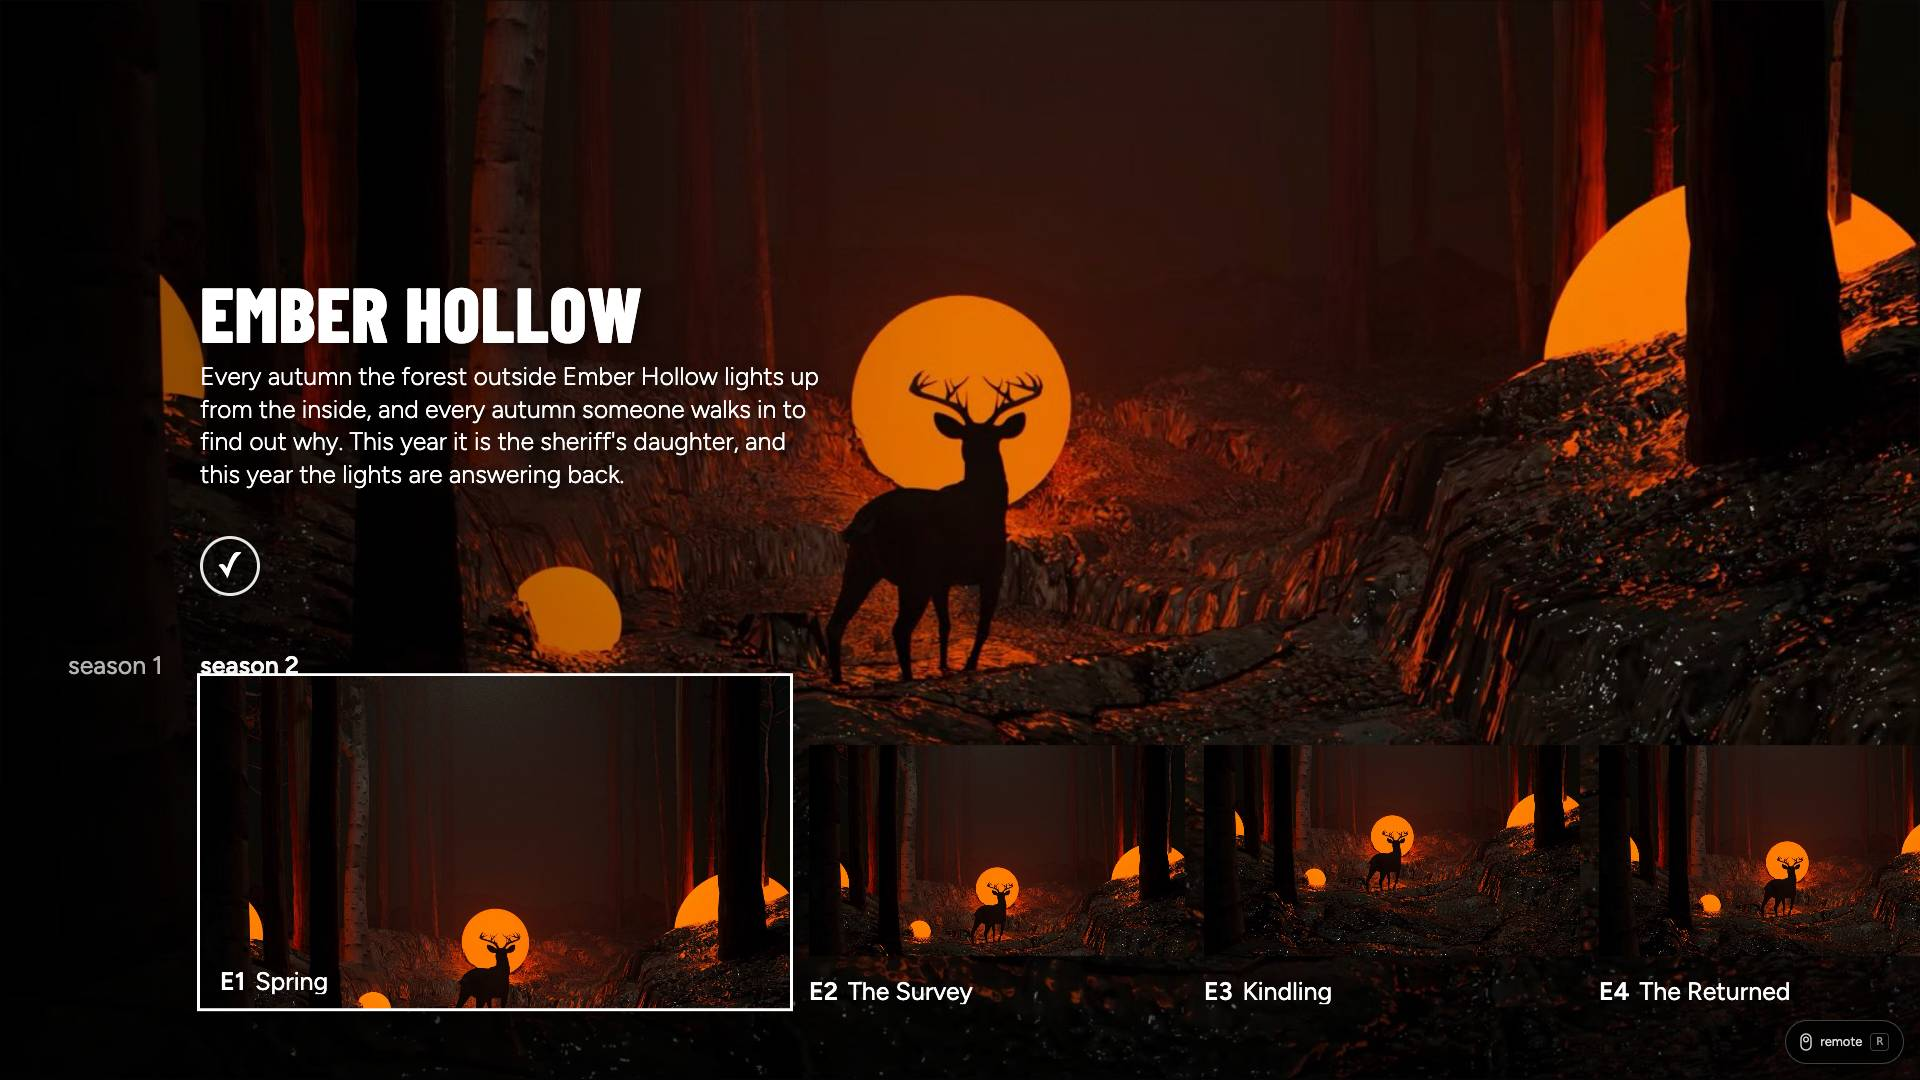
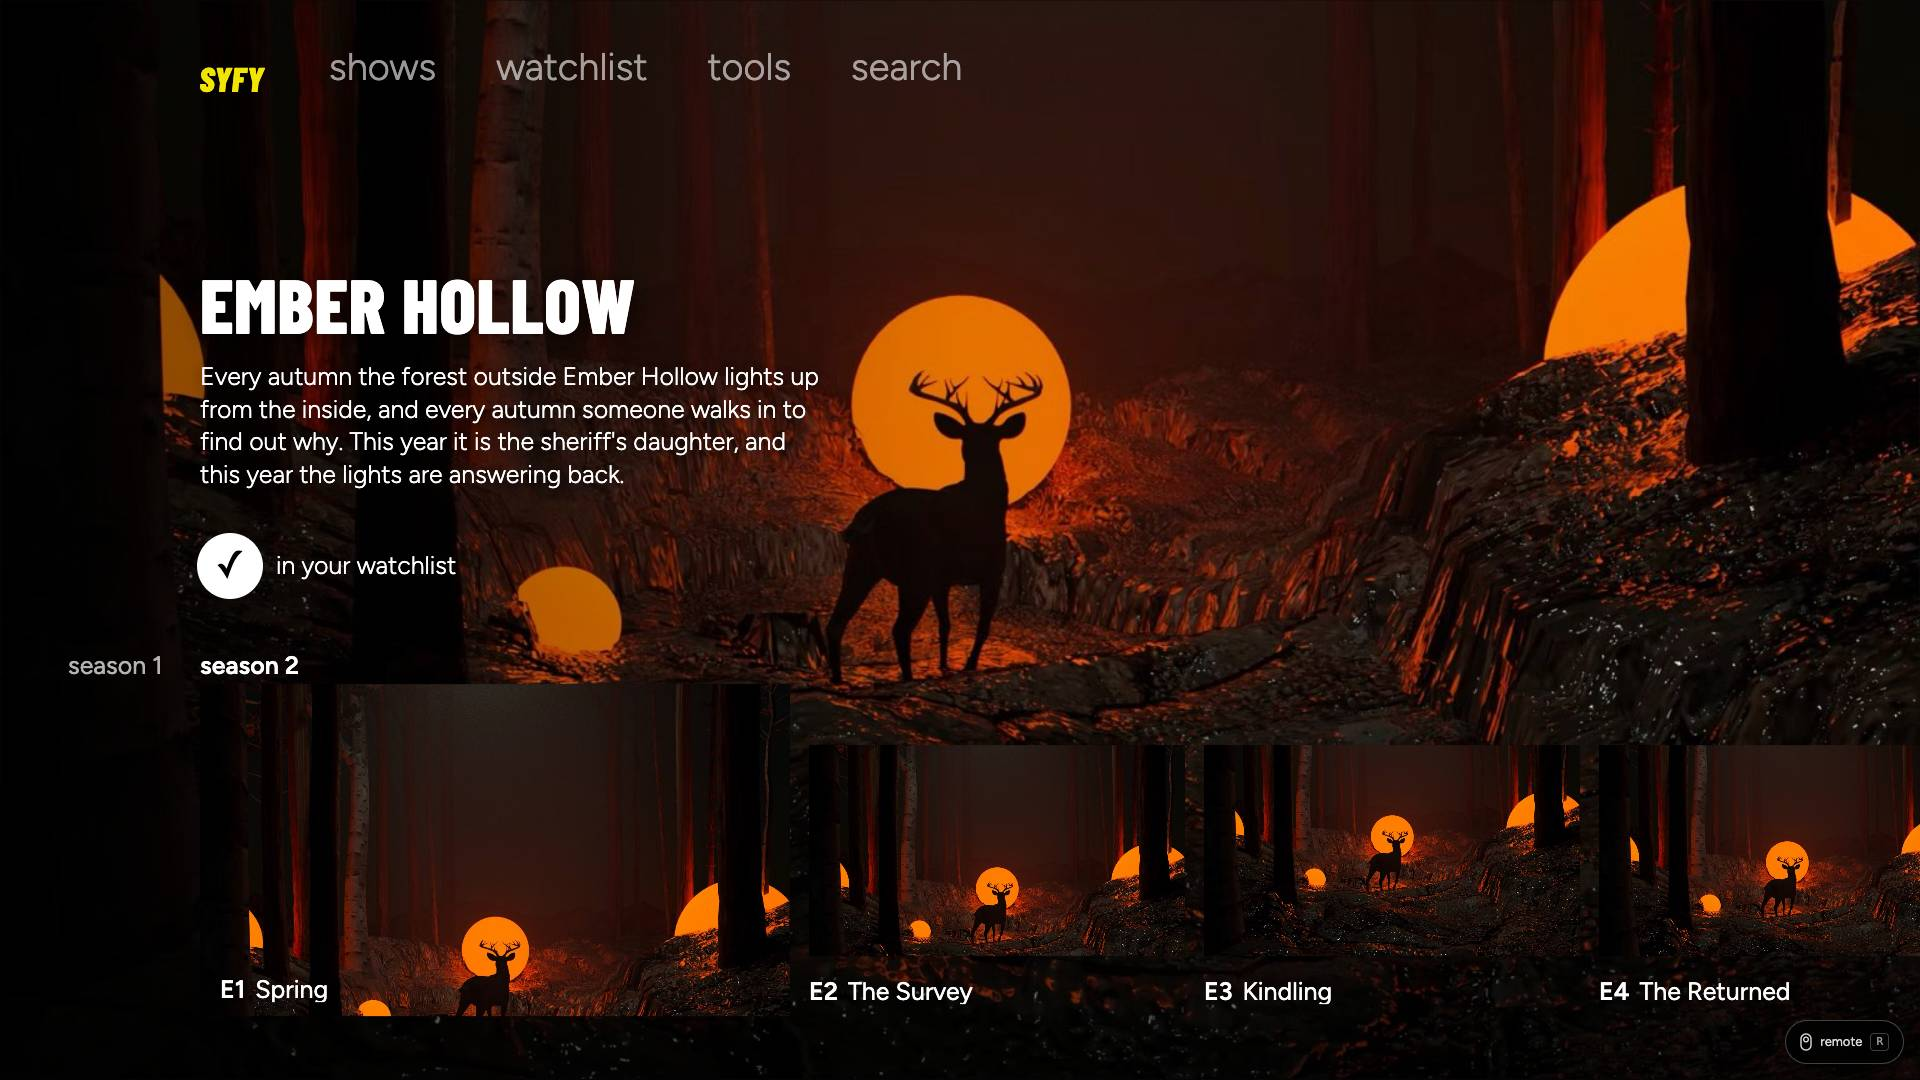
Show page: arrive on the +, nav shown; nav hides below the +
The show page now renders its own nav. Every forward arrival (Home's
hero morph, recently added, the Shows grid, Search) lands focus on the +
with the nav shown; Back from the Player restores the remembered episode
(useScreenFocus gains a `restore` flag, off for PUSH arrivals). The nav
fades out on `quick` when focus goes down to the season tabs or episodes
and back in when it returns to the +; Up from the + reaches it.

The nav's wrapper has variant labels of its own, so it ignores the
screen's hidden/shown: it holds through the morph and Back instead of
fading. ADR 002, the motion tokens, the motion style guide and the
glossary's Morph entry say so. motion-frames.mjs checks the arrival,
the hide and return, Up to the nav and the nav holding through the
morph, and captures a 2b-show-nav-hides strip.

Re-captured docs/screens/show-detail.jpg (arrival state, + focused) and
the hero-to-show and back frames in docs/motion/after.

Closes #31. Part of #25.

diff --git a/src/screens/ShowDetail.tsx b/src/screens/ShowDetail.tsx
@@ -1,9 +1,10 @@
-import { useMemo, useState } from 'react'
-import { Navigate, useNavigate, useParams } from 'react-router'
-import { motion } from 'motion/react'
+import { useEffect, useMemo, useState } from 'react'
+import { Navigate, useNavigate, useNavigationType, useParams } from 'react-router'
+import { motion, useIsPresent } from 'motion/react'
+import { Nav } from '../components/Nav'
 import { EpisodeLabel, Row, type RowItem } from '../components/Row'
 import { RoundButton } from '../components/RoundButton'
-import { useFocusable, useScreenFocus } from '../focus/FocusEngine'
+import { useFocusable, useFocusedId, useScreenFocus } from '../focus/FocusEngine'
 import { useSettings } from '../state/settings'
 import { FULL_CLIP, fromHeroPanel, morph, useFlight, useMotion } from '../motion/useMotion'
 import { distance, duration } from '../motion/tokens'
@@ -56,7 +57,19 @@ function ShowPage({ show }: { show: Show }) {
   const season = show.seasons[seasonIndex]
   const added = inWatchlist(show.id)
 
-  useScreenFocus(`show:${show.id}`, `episodes:${show.id}:${season.number}:${season.episodes[0].number}`)
+  // Arriving (Home's hero, the Shows grid, Search, a tile's info) lands on the +; coming back from the Player restores the last focus.
+  const returning = useNavigationType() !== 'PUSH'
+  useScreenFocus(`show:${show.id}`, `show:${show.id}:add`, returning)
+
+  // The nav is shown while focus is on the + (or in the nav) and hidden while it is below, on the season tabs or episodes.
+  // Once the page starts leaving, the nav stays as it was.
+  const focusedId = useFocusedId()
+  const present = useIsPresent()
+  const below = !!focusedId && (focusedId.startsWith(`season:${show.id}:`) || focusedId.startsWith(`episodes:${show.id}:`))
+  const [navShown, setNavShown] = useState(true)
+  useEffect(() => {
+    if (present) setNavShown(!below)
+  }, [present, below])
 
   const items: RowItem[] = useMemo(
     () =>
@@ -110,6 +123,15 @@ function ShowPage({ show }: { show: Show }) {
       </motion.div>
       <motion.div className="absolute inset-0 bg-gradient-to-r from-black/50 via-black/10 to-transparent" variants={m.part} />
       <motion.div className="absolute inset-x-0 bottom-0 h-[420px] bg-gradient-to-t from-black/60 to-transparent" variants={m.part} />
+      {/* Labels of its own, so the nav ignores the screen's hidden/shown: it holds through the morph and Back and fades only with focus. */}
+      <motion.div
+        variants={{ navHidden: { opacity: 0 }, navShown: { opacity: 1 } }}
+        initial={viaHero ? false : 'navHidden'}
+        animate={navShown ? 'navShown' : 'navHidden'}
+        transition={m.quick}
+      >
+        <Nav />
+      </motion.div>
 
       <div className="absolute left-[200px] top-[268px] max-w-[620px]">
         <motion.h1

diff --git a/src/motion/tokens.ts b/src/motion/tokens.ts
@@ -7,7 +7,7 @@
  * fixed ease-out tweens. These replace it (issue #9):
  *   tile focus     spring scale 1.1 + 8px lift, brighter border; unfocus trails
  *   hero change    the strip of hero panels slides; neighbours peek smaller and dimmed
- *   hero → show    shared-element morph; nav fades, season row rises
+ *   hero → show    shared-element morph; the nav holds, season row rises
  *   Back           the same morph reversed
  *   screen entry   rows and grids settle with a light stagger
  * With reduced motion every spring becomes an instant move and every fade
@@ -45,9 +45,9 @@ export const spring = {
 export const duration = {
   /** Home's blurred backdrop crossfading to the current hero show. */
   backdropFade: 0.6,
-  /** Screen-to-screen crossfade and the nav fading out of the morph. */
+  /** Screen-to-screen crossfade. */
   screenFade: 0.25,
-  /** Colour and underline changes on text focus (CSS transitions). */
+  /** Colour and underline changes on text focus (CSS transitions); the show page's nav hiding below the + and returning. */
   quick: 0.15,
   /** The season row waits this long into the morph before rising. */
   riseDelay: 0.12,

diff --git a/src/focus/FocusEngine.tsx b/src/focus/FocusEngine.tsx
@@ -208,9 +208,10 @@ export function useBack(handler: () => void) {
 
 /**
  * Give a screen its focus path: restore the id remembered for `key`, or
- * fall back to `defaultId`; then keep remembering as focus moves.
+ * fall back to `defaultId`; then keep remembering as focus moves. With
+ * `restore` false the screen starts on `defaultId` and still remembers.
  */
-export function useScreenFocus(key: string, defaultId: string) {
+export function useScreenFocus(key: string, defaultId: string, restore = true) {
   const { focusedId, setFocus, has, memory } = useFocusContext()
   const ready = useRef(false)
   // Once the screen starts leaving, the next screen's focus is not ours to remember.
@@ -219,7 +220,7 @@ export function useScreenFocus(key: string, defaultId: string) {
   useLayoutEffect(() => {
     ready.current = false
     const frame = requestAnimationFrame(() => {
-      const saved = memory.get(key)
+      const saved = restore ? memory.get(key) : undefined
       setFocus(saved && has(saved) ? saved : defaultId)
       ready.current = true
     })

diff --git a/src/motion/useMotion.ts b/src/motion/useMotion.ts
@@ -48,6 +48,7 @@ export function useMotion() {
     morph: t(spring.morph),
     rise: t(spring.rise),
     fade: fade(reduced ? duration.reduced : duration.screenFade),
+    quick: fade(reduced ? duration.reduced : duration.quick),
     backdropFade: fade(reduced ? duration.reduced : duration.backdropFade),
     /** Opacity-only part of a screen: fades with the screen's enter/exit. */
     part: {

diff --git a/docs/adr/002-motion-tokens-and-stage-morph.md b/docs/adr/002-motion-tokens-and-stage-morph.md
@@ -17,4 +17,5 @@ The style guide needs numbers it can cite, and reduced motion has to be one swit
 - `scripts/motion-frames.mjs` captures the "after" frame strips and asserts the morph, focus scale, rapid input and remote wiring; `--reduced` and `--size=WxH` cover the other paths.
 - After Rob's review (2 Nov): up/down moves use their own slower `spring.scroll` (90/20/1, about 600 ms) while sideways moves keep `spring.strip`; the morph slowed to 80/18/1 (about 700 ms); the stage ignores the mouse (`pointer-events: none`), so only the keyboard and the remote overlay move focus; nav items no longer resize on focus; the focused hero gets the white focus ring; the Player lifts its peeking up next row fully into view when it takes focus.
 - After Rob's second review (2 Nov): Home's hero is a sliding strip again instead of a crossfade. Every hero show is a panel; Left/Right slide the strip one pitch (1711 px) on `spring.heroSlide` (170/26/1, about 450 ms, critically damped) and a press mid-slide retargets it. Neighbours sit at `distance.heroNeighbourScale` 0.92 and `heroNeighbourOpacity` 0.4, shrinking toward the centre so the peeks hold; their copy fades out. The white ring rides the centre panel. Ken Burns is gone: the slide carries the motion, and a drifting photo inside a moving panel competed with it. Each panel's art is still the full-bleed image clipped to the panel, so the morph holds; Enter mid-slide measures the moving panel (`morph.hero.panel`) and the show page opens from there (`fromHeroPanel`).
+- Show-page nav rule (round 2, [#31](https://github.com/robdhyman/fire-tv/issues/31), 3 Nov): the show page has its own nav and arrives with focus on the `+` and the nav shown, so the morph no longer fades the nav: it holds while the art opens out and the title flies. Below the `+` (season tabs, episodes) the nav fades out on `quick` (0.15 s) and fades back in when focus returns to the `+`; Up from the `+` reaches it. The nav wrapper has variant labels of its own, so it ignores the screen's `hidden` / `shown` and holds through Back as well. Every forward arrival (hero, Shows grid, Search, recently added) starts on the `+`; Back from the Player restores the remembered episode (`useScreenFocus(key, id, restore)`), and the nav follows that focus.
 - A row's current tile still expands from 376 to 590 px as in the 2017 screenshots (layout fidelity); the 1.1 focus scale applies where tiles are uniform (Shows grid, buttons, logo).

diff --git a/docs/style-guide/motion.md b/docs/style-guide/motion.md
@@ -24,8 +24,8 @@ The direction: the 2017 prototype used fixed ease-out tweens. The rebuild keeps 
 | Token | Value | Used for |
 |---|---|---|
 | `backdropFade` | 0.6 | Home's blurred backdrop crossfading to the current hero show |
-| `screenFade` | 0.25 | screen to screen crossfade; the nav fading out of the morph |
-| `quick` | 0.15 | colour and underline changes on text focus (CSS transition, `--motion-quick`) |
+| `screenFade` | 0.25 | screen to screen crossfade |
+| `quick` | 0.15 | colour and underline changes on text focus (CSS transition, `--motion-quick`); the show page's nav fading out when focus goes below the `+` and back in when it returns |
 | `riseDelay` | 0.12 | the season row waits this long into the morph before rising |
 | `copyAfterFlight` | 0.45 | the logline and `+` wait for the title to land |
 | `reduced` | 0.15 | the only animation left under reduced motion: a short opacity fade |
@@ -49,7 +49,7 @@ The direction: the 2017 prototype used fixed ease-out tweens. The rebuild keeps 
 | Moment | 2017 recording | Now |
 |---|---|---|
 | Hero change | whole strip slides about 500 ms, neighbours peek | the strip slides one panel on `heroSlide`; a press mid-slide retargets; centre panel full size with the white ring, neighbours 0.92 and 40% |
-| Hero to show page | hero zooms to fill, nav fades, season row rises | stage-pixel shared-element **morph** on `morph`: the photo's clip opens to full bleed with no crop jump, the title flies to its place, the nav fades (`screenFade`), the season row rises `rowRise` on `rise` after `riseDelay` |
+| Hero to show page | hero zooms to fill, nav fades, season row rises | stage-pixel shared-element **morph** on `morph`: the photo's clip opens to full bleed with no crop jump, the title flies to its place, the nav holds (the show page arrives on the `+` with it shown), the season row rises `rowRise` on `rise` after `riseDelay` |
 | Back | cut | the morph in reverse; the ring waits for it to land |
 | Tile focus | instant border | `focusIn` to scale 1.1 and lift 8 px with the white ring; unfocus trails on `focusOut` |
 | Up and down | about 250 ms | the slower `scroll` spring, about 600 ms |

diff --git a/GLOSSARY.md b/GLOSSARY.md
@@ -148,4 +148,4 @@ A short generated video clip of a show, meant one day to play on the hero after 
 
 ## Morph
 
-The shared-element transition from Home's hero to a show page: the hero art opens out to full bleed and the title flies to its place on the show page while the nav fades and the season row rises. Back plays it in reverse. Its timings are the `morph` tokens in `src/motion/tokens.ts`.
+The shared-element transition from Home's hero to a show page: the hero art opens out to full bleed and the title flies to its place on the show page while the nav holds and the season row rises. Back plays it in reverse. Its timings are the `morph` tokens in `src/motion/tokens.ts`.
